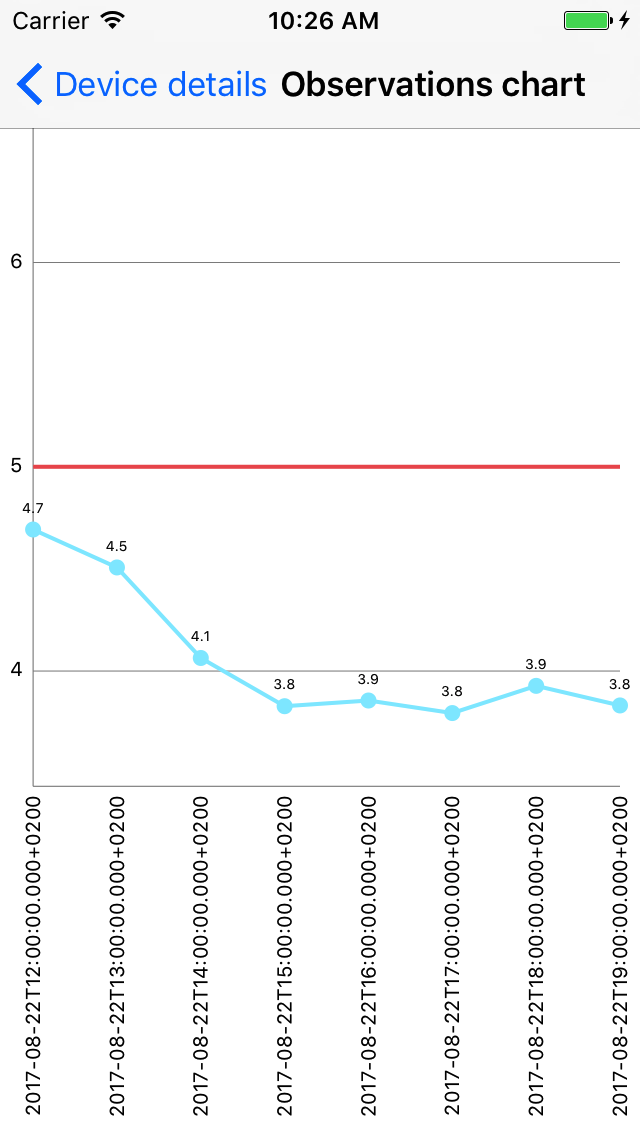
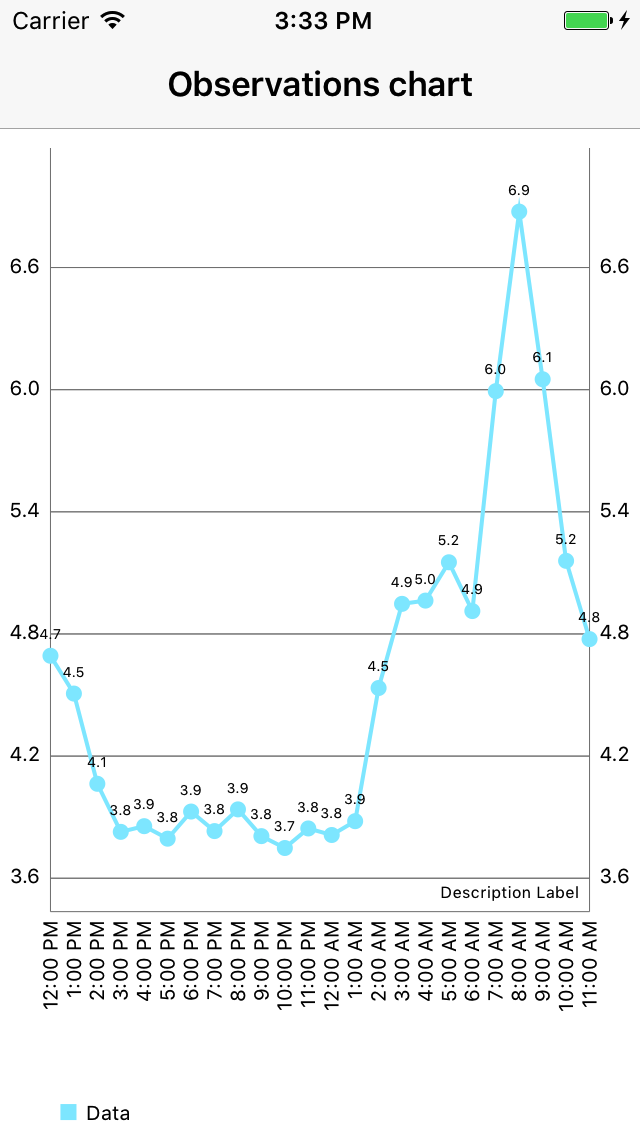
interactive chart -> pinch to zoom, pan to move

diff --git a/SSPApp/SSPApp/Views/Observations/ObservationsChartVC.swift b/SSPApp/SSPApp/Views/Observations/ObservationsChartVC.swift
@@ -17,7 +17,11 @@ class ObservationsChartVC: UIViewController {
     override func viewDidLoad() {
         super.viewDidLoad()
 
-        // Do any additional setup after loading the view.
+        // Debug test
+        if obsMam.currentObservations.count == 0 {
+            obsMam.getTestData()
+        }
+        
         updateData()
     }
     
@@ -51,90 +55,114 @@ class ObservationsChartVC: UIViewController {
         
         let ithKey = Array(obsMam.observationsByName.keys)[0]
         if let valuesArr = obsMam.observationsByName[ithKey] {
-        
-        // fill items
-        var index: Double = 0
-        for obs in valuesArr {
             
-            // label
-            let dateString = obs.resultTime
-            labels.append(dateString)
+            // fill items
+            var index: Double = 0
+            for obs in valuesArr {
+                
+                // label
+                let dateString = obs.time.localizedTime()
+                labels.append(dateString)
+                
+                let entry = ChartDataEntry(x: index, y: obs.values[0].valueDouble)
+                items.append(entry)
+                index += 1.0
+            }
             
-            let entry = ChartDataEntry(x: index, y: obs.values[0].valueDouble)
-            items.append(entry)
-            index += 1.0
+            // value formatter
+            let nf = NumberFormatter()
+            nf.minimumIntegerDigits = 1
+            nf.minimumFractionDigits = 1
+            nf.maximumFractionDigits = 1
+            nf.decimalSeparator = "."
+            
+            // chart data
+            let dataSet = LineChartDataSet(values: items, label: "Data")
+            dataSet.drawValuesEnabled = true
+            dataSet.valueFormatter = DefaultValueFormatter(formatter: nf)
+            //dataSet.setColor(WFIColors.windSpeedChart)
+            dataSet.drawCircleHoleEnabled = false
+            //dataSet.setCircleColor(WFIColors.windSpeedChart)
+            dataSet.circleRadius = 4.0
+            dataSet.lineWidth = 2.0
+            
+            let data = LineChartData(dataSet: dataSet)
+            
+            
+            chartView.data = data
+            chartView.notifyDataSetChanged()
+            chartView.setNeedsDisplay()
+            
+            // configure axis
+            let xAxis = chartView.xAxis
+            xAxis.labelPosition = .bottom
+            xAxis.drawGridLinesEnabled = false
+            xAxis.valueFormatter = IndexAxisValueFormatter(values: labels)
+            xAxis.labelCount = labels.count
+            xAxis.labelRotationAngle = -90.0
+            xAxis.granularity = 1.0
+            
+            
+            // this must be last
+            chartView.centerViewTo(xValue: 0, yValue: 0, axis: .left)
+           // chartView.setVisibleXRange(minXRange: 7, maxXRange: 7)
+            
         }
         
-        // value formatter
-        let nf = NumberFormatter()
-        nf.minimumIntegerDigits = 1
-        nf.minimumFractionDigits = 1
-        nf.maximumFractionDigits = 1
-        nf.decimalSeparator = "."
-        
-        // chart data
-        let dataSet = LineChartDataSet(values: items, label: "Data")
-        dataSet.drawValuesEnabled = true
-        dataSet.valueFormatter = DefaultValueFormatter(formatter: nf)
-        //dataSet.setColor(WFIColors.windSpeedChart)
-        dataSet.drawCircleHoleEnabled = false
-        //dataSet.setCircleColor(WFIColors.windSpeedChart)
-        dataSet.circleRadius = 4.0
-        dataSet.lineWidth = 2.0
-        
-        let data = LineChartData(dataSet: dataSet)
-        
-        // configure axis
-        let xAxis = chartView.xAxis
-        xAxis.labelPosition = .bottom
-        xAxis.drawGridLinesEnabled = false
-        xAxis.valueFormatter = IndexAxisValueFormatter(values: labels)
-        xAxis.labelCount = labels.count
-        xAxis.labelRotationAngle = -90.0
-        xAxis.granularity = 1.0
-        
-        let yAxis = chartView.leftAxis
-        yAxis.drawAxisLineEnabled = true
-        yAxis.drawGridLinesEnabled = true
-        yAxis.granularityEnabled = true
-        
-        let line = ChartLimitLine(limit: 5.0)
-        //line.lineColor = WFIColors.windLineColor
-        yAxis.addLimitLine(line)
-        
-        chartView.rightAxis.enabled = false
-        
-        chartView.extraBottomOffset = 10.0
-        
-        let legend = chartView.legend
-        legend.form = .line
-        legend.horizontalAlignment = .center
-        legend.verticalAlignment = .top
-        legend.orientation = .vertical
-        legend.drawInside = false
-        legend.formSize = 30.0
-        
-        // configure chart
-        chartView.chartDescription?.enabled = false
-        chartView.legend.enabled = false
-        chartView.drawGridBackgroundEnabled = false
-        chartView.pinchZoomEnabled = false
-        chartView.doubleTapToZoomEnabled = false
-        chartView.scaleXEnabled = false
-        chartView.scaleYEnabled = false
-        
-        chartView.highlightPerTapEnabled = false
-        chartView.highlightPerDragEnabled = false
-        
-        chartView.isHidden = false
-        chartView.data = data
-        chartView.notifyDataSetChanged()
-        chartView.setNeedsDisplay()
-        
-        // this must be last
-        chartView.centerViewTo(xValue: 0, yValue: 0, axis: .left)
-        chartView.setVisibleXRange(minXRange: 7, maxXRange: 7)
+        /*  //with lots of view manipulation
+            
+            // configure axis
+            let xAxis = chartView.xAxis
+            xAxis.labelPosition = .bottom
+            xAxis.drawGridLinesEnabled = false
+            xAxis.valueFormatter = IndexAxisValueFormatter(values: labels)
+            xAxis.labelCount = labels.count
+            xAxis.labelRotationAngle = -90.0
+            xAxis.granularity = 1.0
+            
+            let yAxis = chartView.leftAxis
+            yAxis.drawAxisLineEnabled = true
+            yAxis.drawGridLinesEnabled = true
+            yAxis.granularityEnabled = true
+            
+    //        let line = ChartLimitLine(limit: 5.0)
+    //        //line.lineColor = WFIColors.windLineColor
+    //        yAxis.addLimitLine(line)
+            
+            chartView.rightAxis.enabled = false
+            
+    //chartView.extraBottomOffset = 10.0
+            
+            let legend = chartView.legend
+            legend.form = .line
+            legend.horizontalAlignment = .center
+            legend.verticalAlignment = .top
+            legend.orientation = .vertical
+            legend.drawInside = false
+            legend.formSize = 30.0
+            
+            // configure chart
+    //        chartView.chartDescription?.enabled = false
+    //        chartView.legend.enabled = false
+    //        chartView.drawGridBackgroundEnabled = false
+    //        chartView.pinchZoomEnabled = false
+    //        chartView.doubleTapToZoomEnabled = false
+    //        chartView.scaleXEnabled = false
+    //        chartView.scaleYEnabled = false
+    //        
+    //        chartView.highlightPerTapEnabled = false
+    //        chartView.highlightPerDragEnabled = false
+            
+            chartView.isHidden = false
+            chartView.data = data
+            chartView.notifyDataSetChanged()
+            chartView.setNeedsDisplay()
+            
+            // this must be last
+            chartView.centerViewTo(xValue: 0, yValue: 0, axis: .left)
+            chartView.setVisibleXRange(minXRange: 7, maxXRange: 7)
         }
+ */
     }
 
 }

diff --git a/SSPApp/SSPApp/Models/Observation.swift b/SSPApp/SSPApp/Models/Observation.swift
@@ -14,6 +14,7 @@ class Observation {
     var resourceId: String = ""
     var resultTime: String = ""  //TODO parse time to DateTime
     var samplingTime: String = ""
+    var time = DateTime()
     
     var location: ObservationLocation?
     var values: [ObservationValue] = [ObservationValue]()
@@ -24,7 +25,10 @@ class Observation {
         
         
         if j["resourceId"].exists()     { resourceId = j["resourceId"].stringValue }
-        if j["resultTime"].exists()     { resultTime = j["resultTime"].stringValue }
+        if j["resultTime"].exists()     {
+            resultTime = j["resultTime"].stringValue
+            time = DateTime(fromString: resultTime)
+        }
         if j["samplingTime"].exists()     { samplingTime = j["samplingTime"].stringValue }
         
         if j["location"].exists()     {
